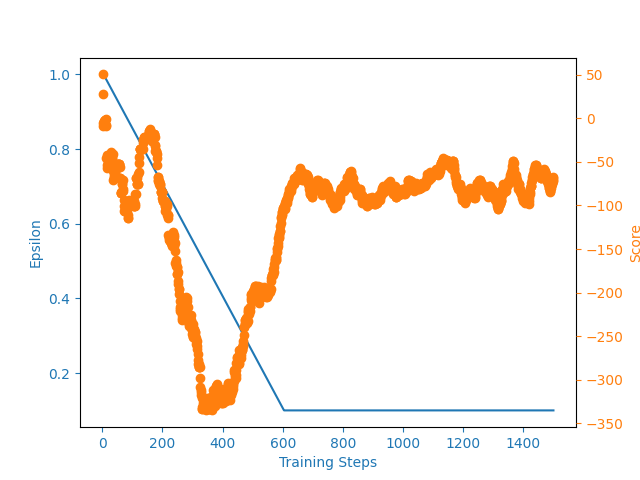
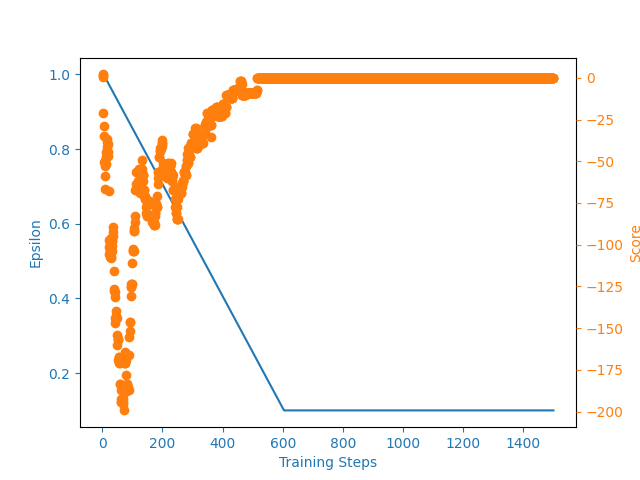
correct utilization ratio

diff --git a/market_env/env.py b/market_env/env.py
@@ -133,7 +133,7 @@ class User:
                 plf.user_i_tokens[self.name]
                 - plf.user_b_tokens[self.name] / plf.collateral_factor
             )
-            amount = min(max(amount, -withdraw_limit), -plf.total_available_funds)
+            amount = max(amount, -withdraw_limit, -plf.total_available_funds)
 
         if -1e-3 < amount < 1e-3:
             return
@@ -407,6 +407,8 @@ class PlfPool:
         # self.total_borrowed_funds / (
         #     self.total_available_funds + self.total_borrowed_funds
         # )
+        if self.total_b_tokens == 0:
+            return 0
         return self.total_b_tokens / self.total_i_tokens
 
     # max(0, min(1 - 1e-3, ratio))

diff --git a/rl/main_gov.py b/rl/main_gov.py
@@ -67,7 +67,7 @@ if __name__ == "__main__":
             next(iter(defi_env.plf_pools.values())).collateral_factor
         )
 
-    torch.save(agent.q_eval.state_dict(), "models/dqn_gov.pth")
+    # torch.save(agent.q_eval.state_dict(), "models/dqn_gov.pth")
 
     x = [i + 1 for i in range(n_games)]
     filename = path.join(FIGURES_PATH, "defi.png")
